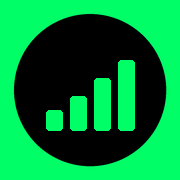
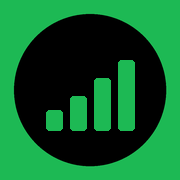
Icono test #1: green Spotify oficial (#1DB954)
Pruebo verde menos saturado para reducir el "destello" percibido del
#00ff66 al 100% saturación. Cache-buster v=4 para forzar download.

diff --git a/index.html b/index.html
@@ -8,8 +8,8 @@
 <meta name="mobile-web-app-capable" content="yes">
 <meta name="apple-mobile-web-app-status-bar-style" content="black-translucent">
 <meta name="apple-mobile-web-app-title" content="Wealth">
-<link rel="apple-touch-icon" sizes="180x180" href="apple-touch-icon.png?v=3">
-<link rel="icon" type="image/png" sizes="180x180" href="apple-touch-icon.png?v=3">
+<link rel="apple-touch-icon" sizes="180x180" href="apple-touch-icon.png?v=4">
+<link rel="icon" type="image/png" sizes="180x180" href="apple-touch-icon.png?v=4">
 <meta name="robots" content="noindex,nofollow,noarchive,nosnippet">
 <meta name="googlebot" content="noindex,nofollow">
 <title>Wealth Dashboard</title>

diff --git a/make_icon.py b/make_icon.py
@@ -15,7 +15,7 @@ SCALE = 4
 S = SIZE * SCALE
 
 BLACK = (0, 0, 0, 255)
-GREEN = (0, 255, 102, 255)  # #00ff66
+GREEN = (29, 185, 84, 255)  # #1DB954 — Spotify green
 PAD = 14
 
 # === 1) Frame verde + círculo negro a supersample con LANCZOS ===
